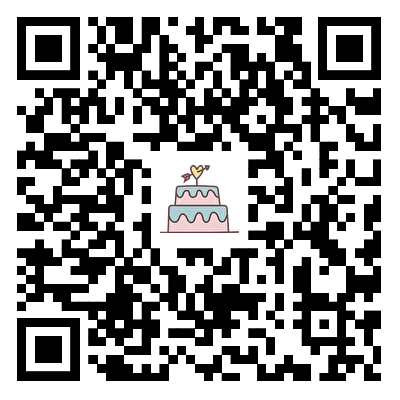
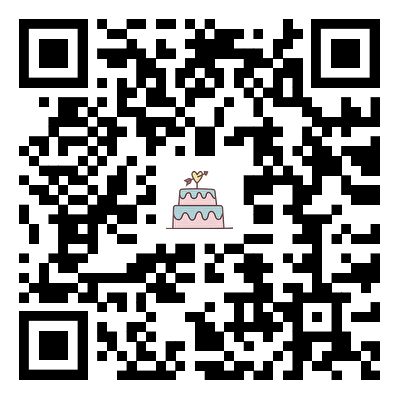
feat: add music player & screen suit.

diff --git a/index.html b/index.html
@@ -7,66 +7,72 @@
     initial-scale=1.0,maximum-scale=1.0,minimum-scale=1.0,user-scalable=1.0">
     <link rel="stylesheet" href="css/app.css">
     <script src="js/app.js"></script>
-    <audio src="http://download.tyzhang.top/files/bgm.mp3" autoplay="autoplay" loop="loop"></audio>
+    <audio id="bgm" src="http://download.tyzhang.top/files/bgm.mp3" loop="loop"></audio>
 </head>
 
 <body>
     <div class="container">
+        <div id="pageloading">
+            <center>
+                <img src="images/loading.gif" style="width: 20%;">
+                <h2 style="font-size: 10px;color: #FFFFFF">Loading...</h2>
+            </center>
+        </div>        
         <div id="viewport" class="viewport">
             <div class="pageview"
-                style="background-image: url(images/img01.png); background-position: center center; background-size: cover; background-repeat: no-repeat; width: 100%; height: 100%;">
-                <center style="margin-top: 15%">
+                style="background-image: url(images/img01.jpg); background-position: center center; background-size: cover; background-repeat: no-repeat; width: 100%; height: 100%;">
+                <center class="pagecontent">
                     <h1 style="font-size: 50px;color: #FFFFFF">Hello</h1>
                     <h2 style="font-size: 45px;color: #FFFFFF">World</h2>
                     <h3 style="font-size: 30px;color: #FFFFFF">To : Username</h3>
                 </center>
             </div>
             <div class="pageview"
-                style="background-image: url(images/img02.png); background-position: center center; background-size: cover; background-repeat: no-repeat; width: 100%; height: 100%;">
-                <center style="margin-top: 40%">
+                style="background-image: url(images/img02.jpg); background-position: center center; background-size: cover; background-repeat: no-repeat; width: 100%; height: 100%;">
+                <center class="pagecontent">
                     <h1 style="font-size: 30px;color: #FFFFFF">"可爱又迷人的反派角色"</h1>
                     <h2 style="font-size: 20px;color: #FFFFFF">2013年 元旦<br>“那些年我们一起看过的动画片”</h2>
                 </center>
             </div>
             <div class="pageview"
-                style="background-image: url(images/img03.png); background-position: center center; background-size: cover; background-repeat: no-repeat; width: 100%; height: 100%;">
-                <center style="margin-top: 40%">
+                style="background-image: url(images/img03.jpg); background-position: center center; background-size: cover; background-repeat: no-repeat; width: 100%; height: 100%;">
+                <center class="pagecontent">
                     <h1 style="font-size: 30px;color: #FFFFFF">"我们照张相吧"</h1>
                     <h2 style="font-size: 20px;color: #FFFFFF">2014夏天 毕业典礼<br>"来来来，咱俩照一张"</h2>
                 </center>
             </div>
             <div class="pageview"
-                style="background-image: url(images/img04.png); background-position: center center; background-size: cover; background-repeat: no-repeat; width: 100%; height: 100%;">
-                <center style="margin-top: 40%">
+                style="background-image: url(images/img04.jpg); background-position: center center; background-size: cover; background-repeat: no-repeat; width: 100%; height: 100%;">
+                <center class="pagecontent">
                     <h1 style="font-size: 30px;color: #FFFFFF">"狗狗老师你还好么"</h1>
                     <h2 style="font-size: 20px;color: #FFFFFF">2014.9.7<br>我收到了一封邮件<br>留到今天<br><br>"是我先加的你啊妈蛋"</< /h2>
                 </center>
             </div>
             <div class="pageview"
-                style="background-image: url(images/img05.png); background-position: center center; background-size: cover; background-repeat: no-repeat; width: 100%; height: 100%;">
-                <center style="margin-top: 40%">
+                style="background-image: url(images/img05.jpg); background-position: center center; background-size: cover; background-repeat: no-repeat; width: 100%; height: 100%;">
+                <center class="pagecontent">
                     <h1 style="font-size: 30px;color: #FFFFFF">"你好北门苹果快递"</h1>
                     <h2 style="font-size: 20px;color: #FFFFFF">
                         2015.12.22<br>平安夜要吃一个苹果<br>我却收到了一整箱<br><br><br><br>\(^。^)/</h2>
                 </center>
             </div>
             <div class="pageview"
-                style="background-image: url(images/img06.png); background-position: center center; background-size: cover; background-repeat: no-repeat; width: 100%; height: 100%;">
-                <center style="margin-top: 40%">
+                style="background-image: url(images/img06.jpg); background-position: center center; background-size: cover; background-repeat: no-repeat; width: 100%; height: 100%;">
+                <center class="pagecontent">
                     <h1 style="font-size: 30px;color: #FFFFFF">"顺丰樱桃取一下"</h1>
                     <h2 style="font-size: 20px;color: #FFFFFF">2016.5.30<br>冰袋很凉<br>烟台的樱桃真的很甜</h2>
                 </center>
             </div>
             <div class="pageview"
-                style="background-image: url(images/img07.png); background-position: center center; background-size: cover; background-repeat: no-repeat; width: 100%; height: 100%;">
-                <center style="margin-top: 40%">
+                style="background-image: url(images/img07.jpg); background-position: center center; background-size: cover; background-repeat: no-repeat; width: 100%; height: 100%;">
+                <center class="pagecontent">
                     <h1 style="font-size: 30px;color: #FFFFFF">"禅与摩托车维修艺术"</h1>
                     <h2 style="font-size: 20px;color: #FFFFFF">
                         2016.9.23<br>漫威爸爸的生日礼物<br>"所以你不打算入漫威的坑了是么"<br><br><br>谢谢费心的假装入坑^_^</h2>
                 </center>
             </div>
             <div class="pageview"
-                style="background-image: url(images/img08.png); background-position: center center; background-size: cover; background-repeat: no-repeat; width: 100%; height: 100%;">
+                style="background-image: url(images/img08.jpg); background-position: center center; background-size: cover; background-repeat: no-repeat; width: 100%; height: 100%;">
                 <center style="margin-top: 20%">
                     <h1 style="font-size: 30px;color: #FFFFFF">"生日快乐!"</h1>
                     <h2 style="font-size: 20px;color: #FFFFFF">21岁的Username
@@ -79,6 +85,7 @@
             <div></div>
             <div></div>
         </div>
+        <a href="javascript:playPause();"><img src="images/pause.png" width="7%" id="playbtn" border="0"></a>
     </div>
 </body>
 

diff --git a/js/app.js b/js/app.js
@@ -3,23 +3,28 @@
     var currentPoint = -1;   // 记录当前点的位置
     var pageNow = 1;   // 当前页码
     var points = null; // 页码数
+    var pagePointView = null; // 分页符
+    var pageLoading = null; // 加载动画
+    var playBtn = null; // 音乐播放按钮
 
     var app = {
         init: function () {
-            if (/(windows)/i.test(navigator.userAgent)) {
+            var mobile = (/iphone|ipod|android|blackberry|mini|windows\sce|palm/i.test(navigator.userAgent.toLowerCase()));
+            if (!mobile) {
                 location.href = 'views/pc.html';
             }
             window.onload = function () {
                 var viewport = document.querySelector('.viewport');
                 viewport.style.opacity = "1";
+                pagePointView.style.opacity = "1";
+                playBtn.style.opacity = "1";
+                pageLoading.style.opacity = "0";
             }
             document.addEventListener('DOMContentLoaded', function () {
                 var viewport = document.querySelector('.viewport');
                 viewport.style.opacity = "0";
                 var numItems = viewport.children.length;
                 viewport.style.width = numItems * 100 + '%';
-                window.console.log(viewport.style.width);
-
                 var numItems = document.querySelectorAll('.pageview center');
                 var pageNumber = document.getElementsByClassName('pagenumber')[0];
                 pageNumber.innerHTML = '';
@@ -28,6 +33,12 @@
                     pageNumber.appendChild(div);
                 }
                 points = document.querySelectorAll('.pagenumber div');
+                pagePointView = document.querySelector('.pagenumber');
+                pagePointView.style.opacity = "0";
+                pageLoading = document.querySelector('#pageloading');
+                pageLoading.style.opacity = "1";
+                playBtn = document.querySelector('#playbtn');
+                playBtn.style.opacity = "0";
                 app.bindTouchEvent(); // 绑定触摸事件
                 app.setPageNow();     // 设置初始页码
             }.bind(app), false);
@@ -55,7 +66,6 @@
          * 绑定触摸事件
          */
         bindTouchEvent: function () {
-            window.console.log('touch')
             var viewport = document.querySelector('#viewport');
             var pageWidth = window.innerWidth; // 页面宽度
             var maxWidth = - pageWidth * (points.length - 1); // 页面滑动最后一页的位置
@@ -160,3 +170,16 @@
         }
     }
 })(window, document);
+
+function playPause() {
+    var music = document.getElementById('bgm');
+    var music_btn = document.getElementById('playbtn');
+    if (music.paused){
+        music.play();
+        music_btn.src = 'images/play.png';
+    }
+    else{
+        music.pause();
+        music_btn.src = 'images/pause.png'; 
+    }
+}

diff --git a/views/pc.html b/views/pc.html
@@ -2,7 +2,8 @@
 <html lang="en">
 <head>
     <meta charset="UTF-8">
-    <title>Happy Birthday to Fan Yibo</title>
+    <title>(^-^)啊哦～</title>
+    <link rel="stylesheet" href="../css/app.css">
 </head>
 <style>
     html,body{font-family: "Microsoft YaHei"}
@@ -10,9 +11,7 @@
     span{color: red}
 </style>
 <script>
-    if(!/(windows)/i.test(navigator.userAgent)){
-        location.href = '../';
-    }
+
 
     function Base(){
         this.a = 1;
@@ -78,7 +77,6 @@
 
 </script>
 <body>
-    <center><h3>请使用手机浏览器访问~~</h3></center>
-    <hr>
+    <center class="pagecontent"><h3>为保证良好的体验效果，<br>请使用移动终端浏览器访问~~</h3></center>
 </body>
 </html>

diff --git a/css/app.css b/css/app.css
@@ -13,6 +13,25 @@ html,body{
    width: 100%;
    height: 100%
 }
+#playbtn{
+    display: -webkit-box;
+    position: absolute;
+    top: 5%;
+    right: 5%;
+    opacity: 0.2;
+}
+#pageloading{
+    position: absolute;
+    top:50%;
+    left:50%;
+    transform: translate(-50%,-50%);
+}
+.pegecontent{
+    position: absolute;
+    top:50%;
+    left:50%;
+    transform: translate(-50%,-50%);
+}
 .viewport{
    width: 100%;
    height: 100%;

diff --git a/dist/app.css b/dist/app.css
@@ -14,6 +14,13 @@ html {
     font-family: Arial
 }
 
+.pageloading{
+    position: absolute;
+    top:50%;
+    left:50%;
+    transform: translate(-50%,-50%);
+}
+
 .viewport {
     width: 100%;
     display: -webkit-box;

diff --git a/README.md b/README.md
@@ -1,31 +1,37 @@
 <p align="center">
-    <img width="100" height="100" src="https://pic.tyzhang.top/images/2022/06/11/icon.png" alt="logo">
+    <img width="100" height="100" src="icon.png" alt="logo">
 </p>
 
 # happy-birthday-page
 
-### 一个HTML动态网页生日贺卡，送给好朋友的生日礼物.
+### 一个 HTML 动态网页生日贺卡，送给好朋友的生日礼物。
 
-### 🎉 演示地址
+<img src="demo.jpeg" style="width: 200px" />
 
-[Happy Birthday](https://ztygalaxy.github.io/happy-birthday-page/)， 或者扫描下方二维码。
+### 🎉 演示
 
-Tips：由于浏览器限制，部分浏览器无法播放 BGM。
+访问 [Happy Birthday](https://tyzhang.top/happy-birthday-pages/) 预览， 或者扫描下方二维码，点击音乐按钮可播放或者暂停 BGM。
 
-<img src="https://pic.tyzhang.top/images/2024/05/31/icon.png" style="zoom:33%;" />
+<img src="qcode.png" style="width: 100px" />
 
 ### 🔨 快速开始
 
-- 在 `index.html` 中，每一个 `.pageview` 标签代表一个页面，可以自由增删，或修改里面的文字。
+- 在 `index.html` 中，每一个 `.pageview` 标签代表一个页面，可以自由增删页面，或修改里面的文字。
 
   ```html
-  <div class="pageview" style="background-image: url(images/img01.png); background-position: center center; background-size: cover; background-repeat: no-repeat; width: 100%; height: 100%;">
+  <div class="pageview" style="background-image: url(images/img01.jpg); background-position: center center; background-size: cover; background-repeat: no-repeat; width: 100%; height: 100%;">
       <center style="margin-top: 15%">
           <h1 style="font-size: 50px;color: #FFFFFF">Hello</h1>
           <h2 style="font-size: 45px;color: #FFFFFF">World</h2>
           <h3 style="font-size: 30px;color: #FFFFFF">To : Username</h3>
       </center>
   </div>                 
+  ```
+
+- 修改 `index.html` 中有关音乐的部分以替换 BGM。
+
+  ```html
+  <audio id="bgm" src="http://download.tyzhang.top/files/bgm.mp3" loop="loop"></audio>
   ```
 
 - `/images` 下存放了每一页的背景图。
@@ -36,6 +42,6 @@ Tips：由于浏览器限制，部分浏览器无法播放 BGM。
 
 首次提交：`2017-03-27`
 
-最新提交：`2024-05-31`
+最新提交：`2024-06-10`
 
 记得给我一颗star，有问题可以[邮件](mailto:zhangty1996@163.com)给我。
